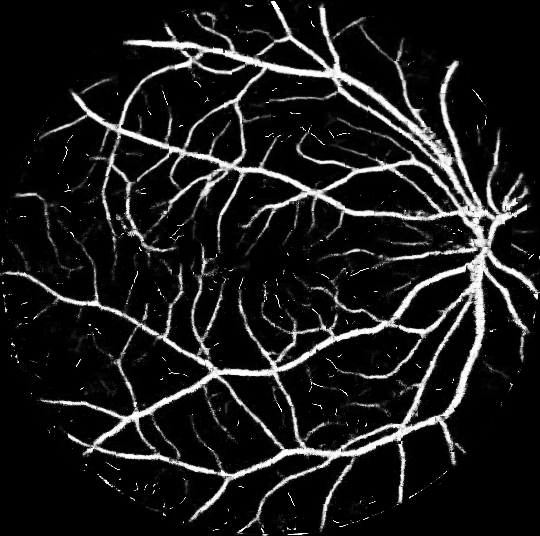
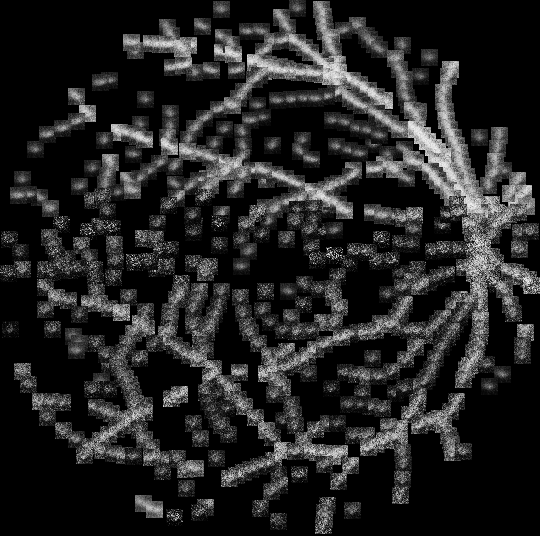
certain number of bboxes

diff --git a/code/new_mkgraph_method.py b/code/new_mkgraph_method.py
@@ -24,9 +24,11 @@ from torch.utils.data import Dataset, DataLoader
 from models.GAT import GAT
 import random
 from torch.autograd import Variable
+from torchmetrics.classification import BinaryAveragePrecision
 
 
-def get_bboxes_from_pred(pred, params = {'threshold': 'otsu', 'neg_iso_size': 6, 'n_slic_pieces': 800}):
+def get_bboxes_from_pred(pred, n_bboxes = 700, params = {'threshold': 'otsu', 'neg_iso_size': 6, 'n_slic_pieces': 800,\
+                                                         'remove_keep': 36}):
     # larger neg_iso_size, less node, other params don't matter a lot
     assert pred.dtype == np.uint8
     if params['threshold'] == 'otsu':
@@ -79,6 +81,13 @@ def get_bboxes_from_pred(pred, params = {'threshold': 'otsu', 'neg_iso_size': 6,
     # remove bboxes out of range    
     small_bboxes = list(filter(lambda x: (x[0]>=0) and (x[1]>=0) and(x[2]<=pred.shape[0]) and (x[3]<=pred.shape[1]), small_bboxes))
     small_bboxes = list(filter(lambda x: certain_pred[x[0]:x[2], x[1]:x[3]].sum() > 0, small_bboxes))
+    # randomly remove bboxes until n_bboxes bboxes left, will keep bboxes containing small vessels
+    n_to_remove = len(small_bboxes) - n_bboxes # number to remove 
+    assert n_to_remove >= 0, f'not enough bboxes (< {n_bboxes}) proposed!'
+    removeable_idx = [i for i in range(len(small_bboxes)) if certain_pred[small_bboxes[i][0]:small_bboxes[i][2], small_bboxes[i][1]:small_bboxes[i][3]].sum() > params['remove_keep']]
+    random.shuffle(removeable_idx)
+    idx_to_remove = removeable_idx[:n_to_remove]
+    small_bboxes = [bbox for i, bbox in enumerate(small_bboxes) if i not in idx_to_remove]
     return small_bboxes, certain_pred
 
 
@@ -184,22 +193,37 @@ def setup_random_seed(seed):
      random.seed(seed)
      torch.backends.cudnn.deterministic = True
      
-def place_bbox_back(logits, pred, graph):
+def place_bbox_back(logits, pred, graph, from_zeros = True):
     # pred.shape == 1,1,H,W
     logits = logits.view(logits.shape[0], 17, 17)
-    for idx, node in enumerate(graph.nodes()):
-        c_x, c_y = graph.nodes[node]['center']
-        pred[:,:,c_x-8 : c_x+9, c_y-8 : c_y+9] = logits[idx, :, :]    
-    return pred    
+    if not from_zeros:
+        for idx, node in enumerate(graph.nodes()):
+            c_x, c_y = graph.nodes[node]['center']
+            pred[:,:,c_x-8 : c_x+9, c_y-8 : c_y+9] = logits[idx, :, :]    
+        return pred    
+    else:
+        zeros = torch.zeros_like(pred)
+        for idx, node in enumerate(graph.nodes()):
+            c_x, c_y = graph.nodes[node]['center']
+            zeros[:,:,c_x-8 : c_x+9, c_y-8 : c_y+9] = logits[idx, :, :]          
+        return zeros    
 # In[]
 setup_random_seed(100)
 TRAIN_DATASET = 'DRIVE'
 criterion = torch.nn.BCEWithLogitsLoss()
-gnn = GAT(3, [4,4,4], [17*17*4, 17*17, 17*17, 17*17], dropout = 0.2)
+gnn = GAT(3, [2,2,2], [17*17*4, 17*17*4, 17*17*4, 17*17], dropout = 0.2) 
+# 3 layers, more layer does not help
+# gnn dropout 0.2 is good, 0.6 sucks
+# hidden dim equal to input dim is good, like [17*17*4, 17*17*4, 17*17*4, 17*17]
+# large hidden dim (more than input dim) does not help
+# 2 heads per layer is enough, 1 head sucks, > 4 heads does not help
+
+
 optimizer= torch.optim.Adam(gnn.parameters(), lr = 1e-3, weight_decay = 0)
 n_epoch = 150
 device = 'cuda'
 gnn = gnn.to(device)
+val_criterion = BinaryAveragePrecision().to(device)
 
 train_set = TrainDataset(dataset_name = TRAIN_DATASET, split = 'train')
 val_set = TrainDataset(dataset_name = TRAIN_DATASET, split = 'val')   
@@ -214,15 +238,14 @@ for epoch in range(n_epoch):
         pred = pred * mask
         bboxes, certain_pred = get_bboxes_from_pred(pred)
         graph = add_edges(bboxes)
+        #vis_bbox_graph(bboxes, graph, np.stack([certain_pred]*3, axis = -1), save_dir = f'{data.ID}_bbox_vis.png')
         ori = ToTensor()(data.ori).unsqueeze(0).to(device)
         pred_tensor = ToTensor()(data.pred).unsqueeze(0).to(device)
         node_feats, edges = bbox_graph_to_torch(graph, input_feats = torch.cat([ori, pred_tensor], dim = 1))
         node_feats, edges = node_feats.to(device), edges.to(device)
         logits, _ = gnn((node_feats, edges), with_feats = False)
         gt = ToTensor()(data.gt).unsqueeze(0).to(device)
-        #gts, _ = bbox_graph_to_torch(graph, gt)
         reconstructed = place_bbox_back(logits, pred_tensor, graph)
-        #reconstructed, gt = reconstructed.view(1,-1), gt.view(1,-1)
         loss = criterion(reconstructed, gt)
         
         epoch_loss += loss.item()
@@ -232,25 +255,31 @@ for epoch in range(n_epoch):
     epoch_mean_loss = epoch_loss / len(train_loader)
     print(f'epoch {epoch+1}, loss {epoch_mean_loss:.4f}')
     
-    for data in val_loader:
-        with torch.no_grad():
-            for data in val_loader:
-                pred = data.pred
-                mask = data.fov_mask.astype(bool)
-                pred = pred * mask
-                bboxes, certain_pred = get_bboxes_from_pred(pred)
-                graph = add_edges(bboxes)
-                ori = ToTensor()(data.ori).unsqueeze(0).to(device)
-                pred_tensor = ToTensor()(data.pred).unsqueeze(0).to(device)
-                node_feats, edges = bbox_graph_to_torch(graph, input_feats = torch.cat([ori, pred_tensor], dim = 1))
-                node_feats, edges = node_feats.to(device), edges.to(device)
-                logits, _ = gnn((node_feats, edges), with_feats = False)
-                gt = ToTensor()(data.gt).unsqueeze(0).to(device)
-                #gts, _ = bbox_graph_to_torch(graph, gt)
-                s_logits = torch.nn.Sigmoid()(logits)
-                reconstructed = place_bbox_back(s_logits, pred_tensor, graph)
-                outputs = reconstructed[0][0].cpu().numpy()
-                io.imsave(f'{data.ID}_gnn_pred.png', img_as_ubyte(outputs))
+
+    with torch.no_grad():
+        for data in val_loader:
+            pred = data.pred
+            mask = data.fov_mask.astype(bool)
+            pred = pred * mask
+            bboxes, certain_pred = get_bboxes_from_pred(pred)
+            graph = add_edges(bboxes)
+            ori = ToTensor()(data.ori).unsqueeze(0).to(device)
+            pred_tensor = ToTensor()(data.pred).unsqueeze(0).to(device)
+            node_feats, edges = bbox_graph_to_torch(graph, input_feats = torch.cat([ori, pred_tensor], dim = 1))
+            node_feats, edges = node_feats.to(device), edges.to(device)
+            logits, _ = gnn((node_feats, edges), with_feats = False)
+            gt = ToTensor()(data.gt).unsqueeze(0).to(device)
+            #gts, _ = bbox_graph_to_torch(graph, gt)
+            s_logits = torch.nn.Sigmoid()(logits)
+            reconstructed = place_bbox_back(s_logits, pred_tensor, graph)
+            before_ap = val_criterion(pred_tensor, gt)
+            after_ap = val_criterion(reconstructed, gt)
+            print(f'AP {before_ap:.4f} to {after_ap:.4f}')
+            outputs = reconstructed[0][0].cpu().numpy()
+            io.imsave(f'{data.ID}_gnn_pred.png', img_as_ubyte(outputs))
+            
+            
+            
 del gnn
 
 

diff --git a/code/models/GAT.py b/code/models/GAT.py
@@ -31,7 +31,12 @@ class RetinalGAT(nn.Module):
 
         self.gat_net = nn.Sequential(*gat_layers)
         
+        self.pos_embed = nn.Parameter(torch.zeros(1000, 17*17*4)) # 1D positional embedding as in ViT
+        self.node_feats_drop = nn.Dropout()
+        
+        
     def forward(self, feats, graph):
+        n_nodes = feats.shape[0]
         pass
 
 
